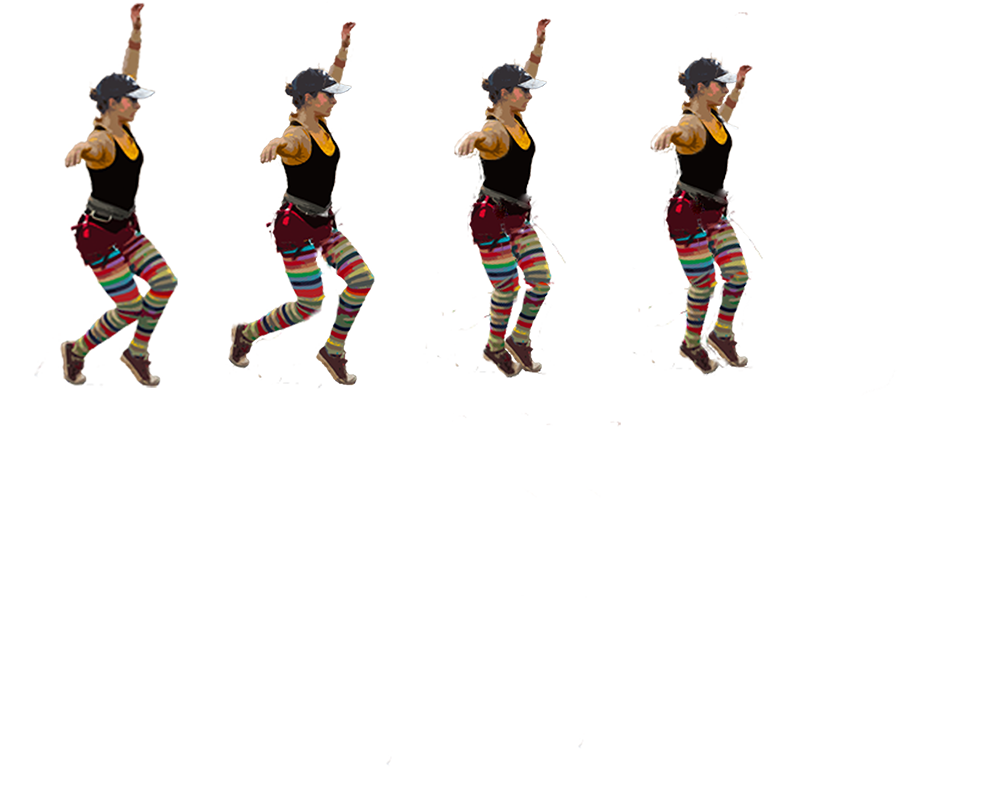
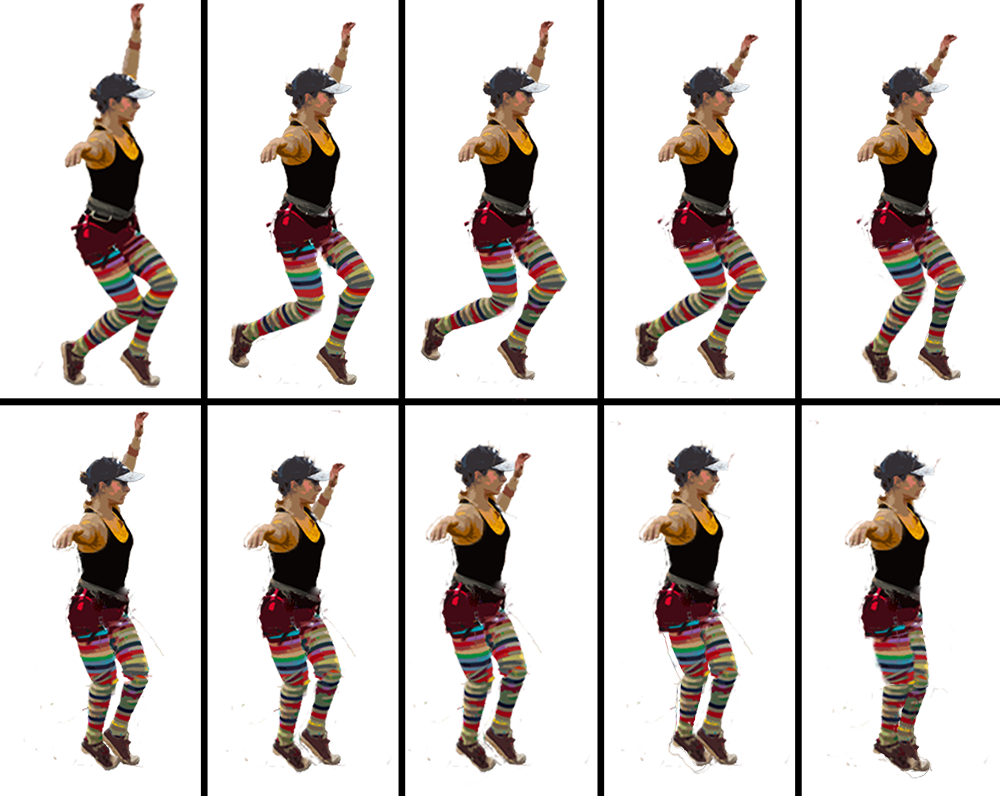
Can't work animation

Changed region(s): [[0.0, 0.0, 1.0, 1.0], [0.248, 0.5729, 0.341, 0.9648], [0.837, 0.5427, 0.93, 0.995]]

diff --git a/hw-fp/sketch.js b/hw-fp/sketch.js
@@ -1,12 +1,15 @@
 
 
-let sonyas = [];
+
+let sonyas = ['Sonya_0.png','Sonya_1.png','Sonya_2.png'];
 let sonya_img;
 let bg = '3b17cc9';
 let img;
 
 function preload(){
-  sonya_img = loadImage('sonya.png')
+
+  img_a = loadImage (sonyas[0]);
+  sonya_img = loadImage('Sonya.png');
   img = loadImage('backdrop.jpg');
 }
 
@@ -14,14 +17,21 @@ function setup(){
   createCanvas(windowWidth, windowHeight);
     sonyas[0] = new Sonya(100, 150, sonya_img, 0);
     sonyas[1] = new Sonya(1015, 100, sonya_img, 1);
+
+
      // image(sonya_img, 0, 0, );
 }
   function draw() {
       background(img);
-      for(let i = 0; i < sonyas.length; i++) {
-        sonyas[i].frame();
+       for(let i = 0; i < sonyas.length; i++) {
+         sonyas[i].frame();
 
-      }
+        //
+        // x = (counter % 4) * w;
+        // y = (counter / 4) * w;
+
+
+
 
 
   }

diff --git a/hw-fp/sonya.js b/hw-fp/sonya.js
@@ -65,8 +65,9 @@
         //update the sprite #
         //updates the subRect positions
         if(frameCount % this.speed === 0){
-          this.sprite_num++;
+          this.sprite_num ++;
           this.sprite_num %= 8;
+
           }
         }
     }
